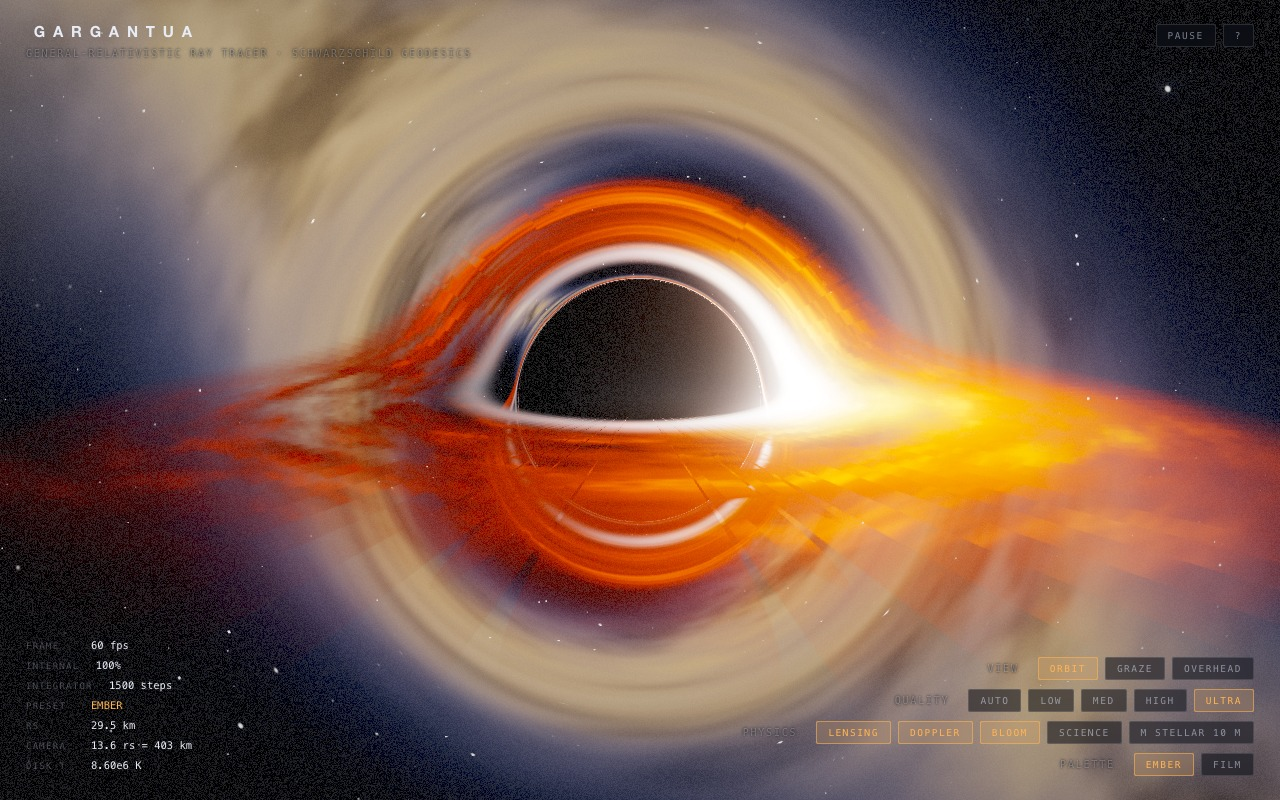
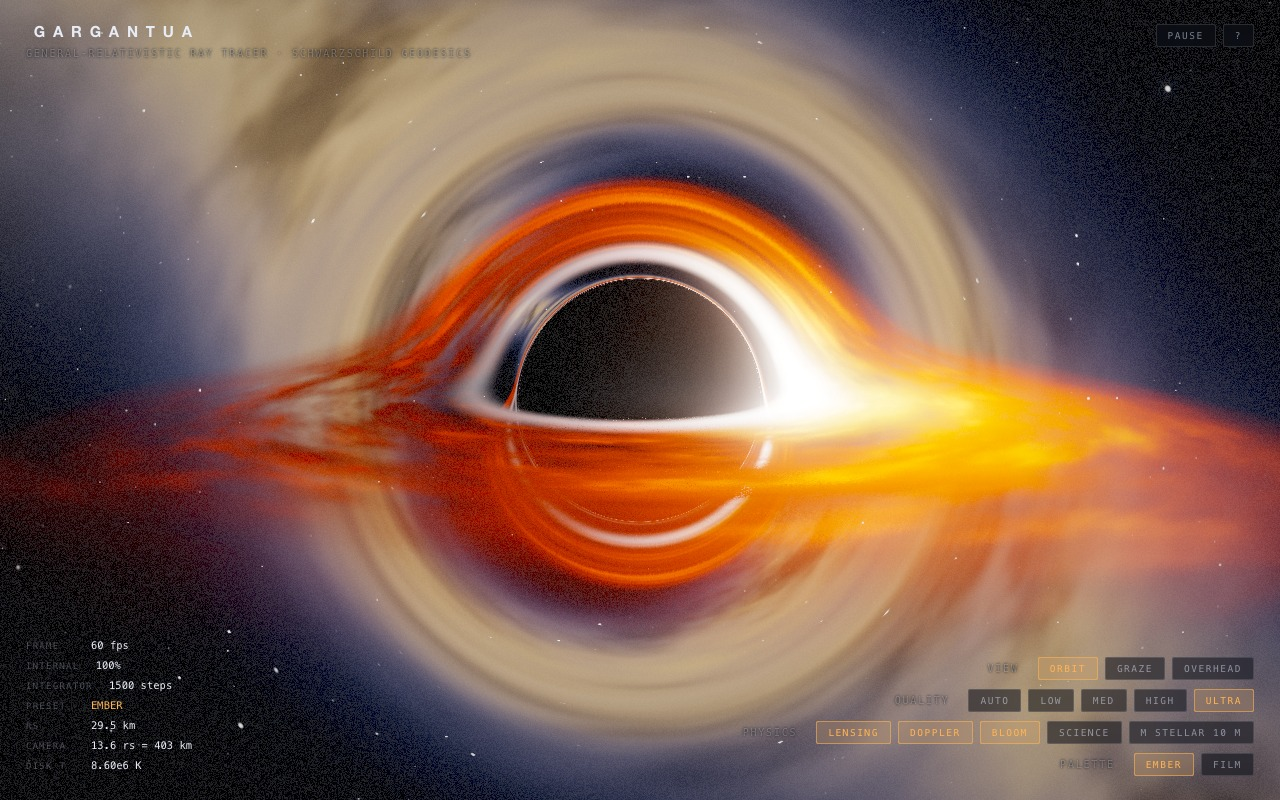
render(round18): per-ray first-step phase jitter kills the shared phi-grid radial streaks (B-matrix isolation: nolensing clean/lensed streaky -> shared-grid mechanism; geometry-preserving fix after the phi-origin offset was rejected as orbit-rotating); PNG/JPEG A/B evidence; suite mirror scope note

diff --git a/dist/bundle.js b/dist/bundle.js
@@ -4411,6 +4411,14 @@ vec3 trace(vec2 ndc){
      dive, phantom disk crossings (round-4 GR audit; dormant in centered
      framings, live the moment the hole leaves frame-center). */
   float w  = (dot(rd,e1) < 0.0 ? 1.0 : -1.0)*sqrt(max(1.0/(b*b) - u*u + RS*u*u*u, 1e-8));
+  /* every ray otherwise marches the SAME phi grid (phi=0 origin, fixed dphi
+     schedule): crossing samples cluster on the shared grid and the disk's
+     bright compressed regions sprout straight radial streaks, one per grid
+     cell (round-18, B-matrix isolation: nolensing clean, lensed streaky).
+     The fix is a per-ray RANDOM FIRST-STEP SIZE (below) \u2014 decorrelating the
+     grid phase WITHOUT touching the phi origin, which is anchored to the
+     launch geometry: offsetting phi itself would rotate each orbit. */
+  float phase0 = hash13(vec3(ndc*913.7, 1.0));
   float phi = 0.0;
 
   vec3 col = vec3(0.0);
@@ -4469,6 +4477,7 @@ vec3 trace(vec2 ndc){
        Cap 1.0 \u2014 larger far-field steps quantize the terminal sky direction
        into visible rings (regression caught on S2). */
     float dphi = uDtScale*0.09*clamp(0.35/u, 0.35, 1.0);
+    if(i == 0) dphi *= mix(0.05, 1.0, phase0);   /* per-ray grid-phase jitter */
 
     /* RK4 step */
     float k1u = w,             k1w = BINET(u);

diff --git a/dist/index.html b/dist/index.html
@@ -4699,6 +4699,14 @@ vec3 trace(vec2 ndc){
      dive, phantom disk crossings (round-4 GR audit; dormant in centered
      framings, live the moment the hole leaves frame-center). */
   float w  = (dot(rd,e1) < 0.0 ? 1.0 : -1.0)*sqrt(max(1.0/(b*b) - u*u + RS*u*u*u, 1e-8));
+  /* every ray otherwise marches the SAME phi grid (phi=0 origin, fixed dphi
+     schedule): crossing samples cluster on the shared grid and the disk's
+     bright compressed regions sprout straight radial streaks, one per grid
+     cell (round-18, B-matrix isolation: nolensing clean, lensed streaky).
+     The fix is a per-ray RANDOM FIRST-STEP SIZE (below) \u2014 decorrelating the
+     grid phase WITHOUT touching the phi origin, which is anchored to the
+     launch geometry: offsetting phi itself would rotate each orbit. */
+  float phase0 = hash13(vec3(ndc*913.7, 1.0));
   float phi = 0.0;
 
   vec3 col = vec3(0.0);
@@ -4757,6 +4765,7 @@ vec3 trace(vec2 ndc){
        Cap 1.0 \u2014 larger far-field steps quantize the terminal sky direction
        into visible rings (regression caught on S2). */
     float dphi = uDtScale*0.09*clamp(0.35/u, 0.35, 1.0);
+    if(i == 0) dphi *= mix(0.05, 1.0, phase0);   /* per-ray grid-phase jitter */
 
     /* RK4 step */
     float k1u = w,             k1w = BINET(u);

diff --git a/index.html b/index.html
@@ -4699,6 +4699,14 @@ vec3 trace(vec2 ndc){
      dive, phantom disk crossings (round-4 GR audit; dormant in centered
      framings, live the moment the hole leaves frame-center). */
   float w  = (dot(rd,e1) < 0.0 ? 1.0 : -1.0)*sqrt(max(1.0/(b*b) - u*u + RS*u*u*u, 1e-8));
+  /* every ray otherwise marches the SAME phi grid (phi=0 origin, fixed dphi
+     schedule): crossing samples cluster on the shared grid and the disk's
+     bright compressed regions sprout straight radial streaks, one per grid
+     cell (round-18, B-matrix isolation: nolensing clean, lensed streaky).
+     The fix is a per-ray RANDOM FIRST-STEP SIZE (below) \u2014 decorrelating the
+     grid phase WITHOUT touching the phi origin, which is anchored to the
+     launch geometry: offsetting phi itself would rotate each orbit. */
+  float phase0 = hash13(vec3(ndc*913.7, 1.0));
   float phi = 0.0;
 
   vec3 col = vec3(0.0);
@@ -4757,6 +4765,7 @@ vec3 trace(vec2 ndc){
        Cap 1.0 \u2014 larger far-field steps quantize the terminal sky direction
        into visible rings (regression caught on S2). */
     float dphi = uDtScale*0.09*clamp(0.35/u, 0.35, 1.0);
+    if(i == 0) dphi *= mix(0.05, 1.0, phase0);   /* per-ray grid-phase jitter */
 
     /* RK4 step */
     float k1u = w,             k1w = BINET(u);

diff --git a/src/shaders.js b/src/shaders.js
@@ -314,6 +314,14 @@ vec3 trace(vec2 ndc){
      dive, phantom disk crossings (round-4 GR audit; dormant in centered
      framings, live the moment the hole leaves frame-center). */
   float w  = (dot(rd,e1) < 0.0 ? 1.0 : -1.0)*sqrt(max(1.0/(b*b) - u*u + RS*u*u*u, 1e-8));
+  /* every ray otherwise marches the SAME phi grid (phi=0 origin, fixed dphi
+     schedule): crossing samples cluster on the shared grid and the disk's
+     bright compressed regions sprout straight radial streaks, one per grid
+     cell (round-18, B-matrix isolation: nolensing clean, lensed streaky).
+     The fix is a per-ray RANDOM FIRST-STEP SIZE (below) — decorrelating the
+     grid phase WITHOUT touching the phi origin, which is anchored to the
+     launch geometry: offsetting phi itself would rotate each orbit. */
+  float phase0 = hash13(vec3(ndc*913.7, 1.0));
   float phi = 0.0;
 
   vec3 col = vec3(0.0);
@@ -372,6 +380,7 @@ vec3 trace(vec2 ndc){
        Cap 1.0 — larger far-field steps quantize the terminal sky direction
        into visible rings (regression caught on S2). */
     float dphi = uDtScale*0.09*clamp(0.35/u, 0.35, 1.0);
+    if(i == 0) dphi *= mix(0.05, 1.0, phase0);   /* per-ray grid-phase jitter */
 
     /* RK4 step */
     float k1u = w,             k1w = BINET(u);
